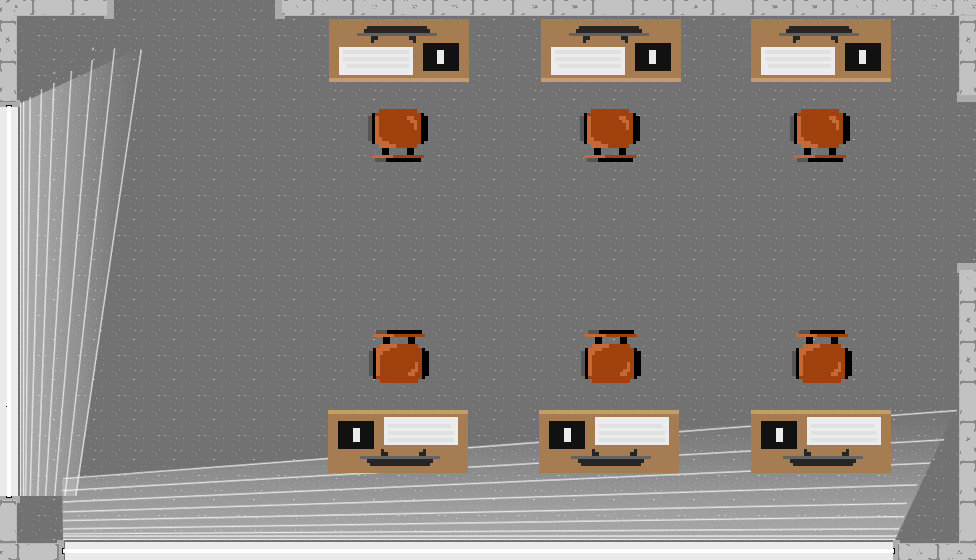
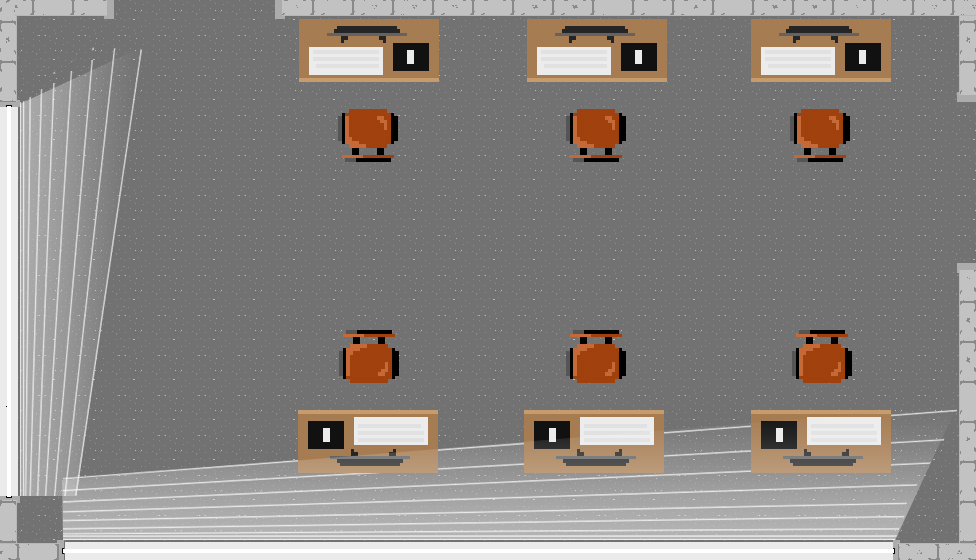
fixed status views and background

diff --git a/episode3/ProgrammerStatusView.m b/episode3/ProgrammerStatusView.m
@@ -25,13 +25,13 @@
 }
 */
 
--(void)setConcentration:(int)concentration color:(UIColor*)concentrationColor energy:(int)energy color:(UIColor*)energyColor health:(int)health color:(UIColor*)healthColor
+-(void)setConcentration:(double)concentration color:(UIColor*)concentrationColor energy:(double)energy color:(UIColor*)energyColor health:(double)health color:(UIColor*)healthColor
 {
-    [_concentrationLabel setText:[NSString stringWithFormat:@"%d", concentration]];
+    [_concentrationLabel setText:[NSString stringWithFormat:@"%.1f", concentration]];
     [_concentrationLabel setTextColor:concentrationColor];
-    [_energyLabel setText:[NSString stringWithFormat:@"%d", energy]];
+    [_energyLabel setText:[NSString stringWithFormat:@"%.1f", energy]];
     [_energyLabel setTextColor:energyColor];
-    [_healthLabel setText:[NSString stringWithFormat:@"%d", health]];
+    [_healthLabel setText:[NSString stringWithFormat:@"%.1f", health]];
     [_healthLabel setTextColor:healthColor];
 }
 

diff --git a/episode3/GameSceneView.m b/episode3/GameSceneView.m
@@ -65,6 +65,9 @@
             [programmerButtons addObject:programmerButton];
             
             ProgrammerStatusView *statusView = [programmer programmerStatusView];
+            CGRect frame = statusView.frame;
+            frame.origin.x +=2;
+            [statusView setFrame:frame];
             [_programmerStatuses[i] addSubview:statusView];
             [programmerStatusViews addObject:statusView];
             

diff --git a/episode3/ProgrammerStatusView.h b/episode3/ProgrammerStatusView.h
@@ -10,6 +10,6 @@
 
 @interface ProgrammerStatusView : UIView
 
--(void)setConcentration:(int)concentration color:(UIColor*)concentrationColor energy:(int)energy color:(UIColor*)energyColor health:(int)health color:(UIColor*)healthColor;
+-(void)setConcentration:(double)concentration color:(UIColor*)concentrationColor energy:(double)energy color:(UIColor*)energyColor health:(double)health color:(UIColor*)healthColor;
 
 @end
